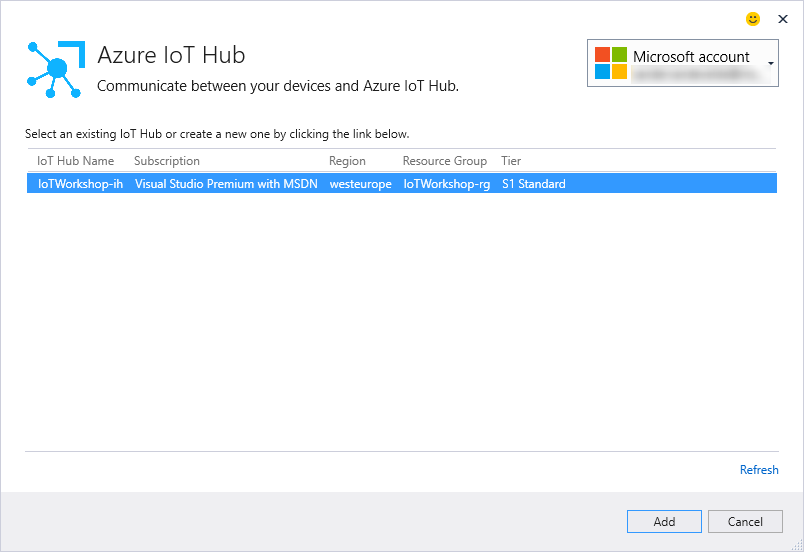
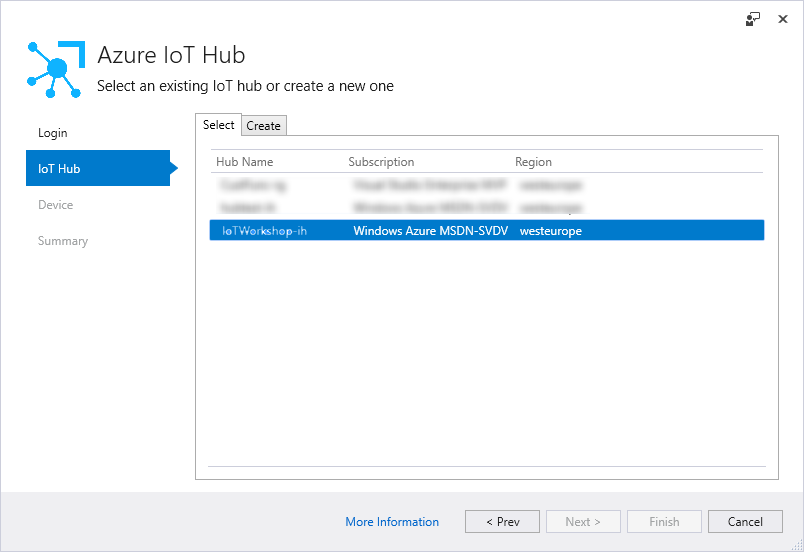
new wizard fixed

diff --git a/UwpToIotHub.md b/UwpToIotHub.md
@@ -103,39 +103,52 @@ Let's add a connection to IoT hub and register the app like a real device.
 
     ![alt tag](img/UwpToIotHub/vs-solution-explorer-universal-start.png)
 
-3. In the solution, right-click `References` and select `Add Connected Service`
+3. In the solution, right-click `Connected Services` and select `Add Connected Service`
 
     ![alt tag](img/UwpToIotHub/vs-iot-hub-extension.png)
 
-4. A welcome screen for the extension will be shown. Select `Azure IoT Hub` and click `Configure` to add it as a Connected Service
+4. A welcome screen for the extension will be shown. Select `Azure IoT Hub` to add it as a Connected Service _(Note: if this option is not shown, please double-check if the extension is installed)_
 
     ![alt tag](img/UwpToIotHub/vs-iot-extension-start.png)
 
-5. Select `Hardcode shared access key` as Security Mode. Confirm with `OK`
-6. Now you will be asked to select the IoT Hub you want to connect. At this time, the Hub should be created. *If you have multiple Azure accounts, please double-check that the correct one is selected*
+5. You are required to connect to you Azure subscription. And the way device credentials are stored, must be chosen:
+
+    ![alt tag](img/UwpToIotHub/vs-iot-extension-credentials.png)
+
+6. Select `Hardcode shared access key` as Security Mode. Confirm with `OK`
+7. Now you will be asked to select the IoT Hub you want to connect. At this time, the Hub should be created. *If you have multiple Azure accounts, please double-check that the correct one is selected*
 
     ![alt tag](img/UwpToIotHub/vs-iot-extension-select.png)
 
-7. Select your IoT Hub and press `Add`
-8. The next page of the wizard is shown. A little screen pops up asking to select or add a device. Our app will represent a device and therefore access must be granted. Select `New Device`
+8. `Select` your IoT Hub and press `Add`
+9. The next page of the wizard is shown. You are asked to select or add the registration of a device. Our app will represent a device and therefore access must be granted, which has to be created. Select `New Device`
 
     ![alt tag](img/UwpToIotHub/vs-device-one.png)
 
-9. Enter a unique `device name` eg 'MachineCyclesUwp'
+10. Enter a unique `device name` eg 'MachineCyclesUwp' and press `Create`
 
-    ![alt tag](img/UwpToIotHub/vs-device-two.png)
-
-10. The device is registered, you are allowed to create more devices. Unique credentials are created for each device in the background
-11. But afterward, be sure to pick the 'MachineCyclesUwp'; this one will be used by our app. Select `OK` to start the generation of the connection
+11. The device is registered, it's not needed to create more devices. Unique credentials are created for each device in the IoTHub
+12. So afterward, in the 'select' tab, be sure to pick the 'MachineCyclesUwp'; this one will be used by our app. _(Note: in this workshop we will look at sending and receiving messages. This wizard can generate example code for device twins and direct methods also, but this is not part of the workshop)_
 
     ![alt tag](img/UwpToIotHub/vs-device-three.png)
 
-12. The necessary NuGet libraries are added and eventually you will be directed to a [Get Started page](https://github.com/Azure/azure-iot-hub-vs-cs/wiki/C%23-Usage) for more information
-13. In the Solution Explorer of Visual Studio, a new file named 'AzureIoTHub.cs' is added. This provides all logic for the connection to the IoT Hub
+13. Select `Next` to review the summary
+
+    ![alt tag](img/UwpToIotHub/vs-device-two.png)
+
+14. Press Finish to start the generation of code. The necessary NuGet libraries are added and eventually you will be directed to a [Get Started page](https://github.com/Azure/azure-iot-hub-vs-cs-2017/wiki/C%23-Usage) for more information
+
+    ![alt tag](img/UwpToIotHub/vs-device-four.png)
+
+15. The wizard now completed the creation of your example code
+
+    ![alt tag](img/UwpToIotHub/vs-device-five.png)
+
+16. In the Solution Explorer of Visual Studio, a new file named 'AzureIoTHub.cs' is added. This provides all logic for the connection to the IoT Hub
 
     ![alt tag](img/UwpToIotHub/vs-iot-hub-singleton.png)
 
-The AzureIoTHub can be integrated into the logic of our App. Let's do that.
+The AzureIoTHub class can be integrated into the logic of our App. Let's do that.
 
 ## Generate and send dummy telemetry
 
